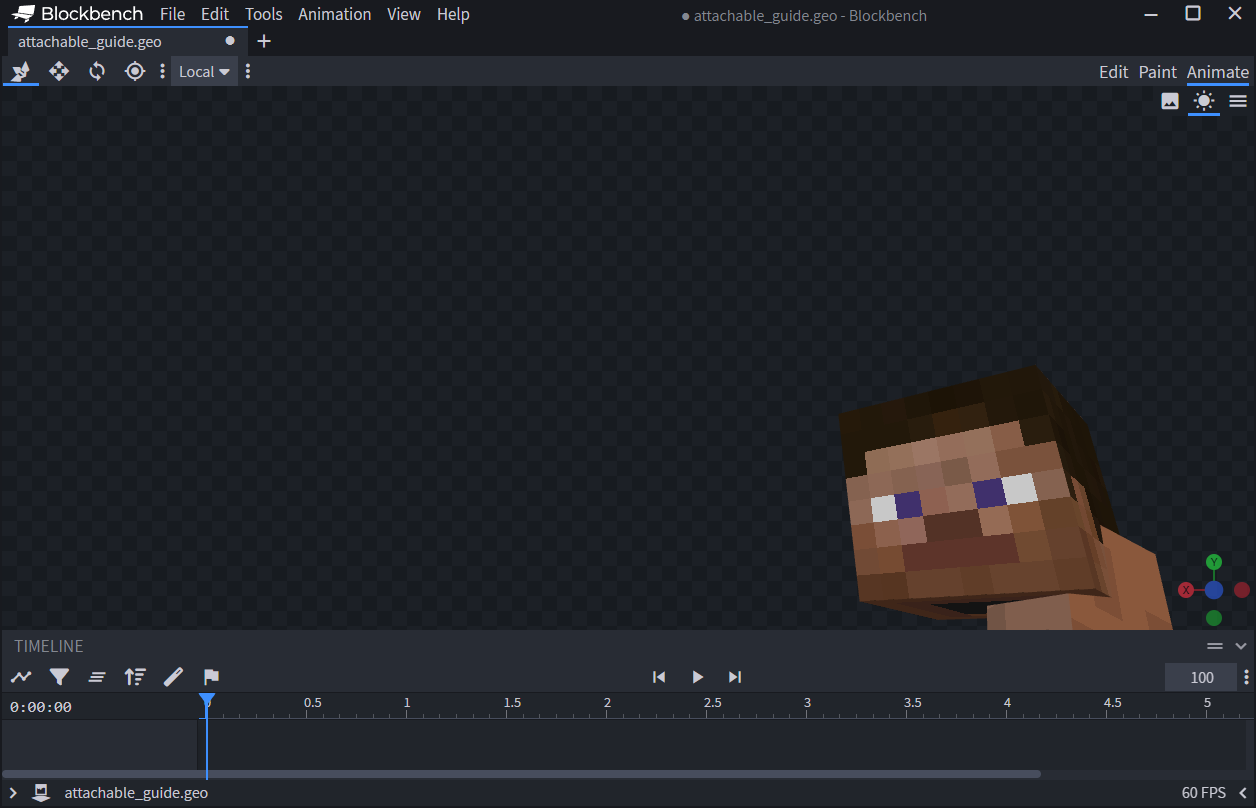
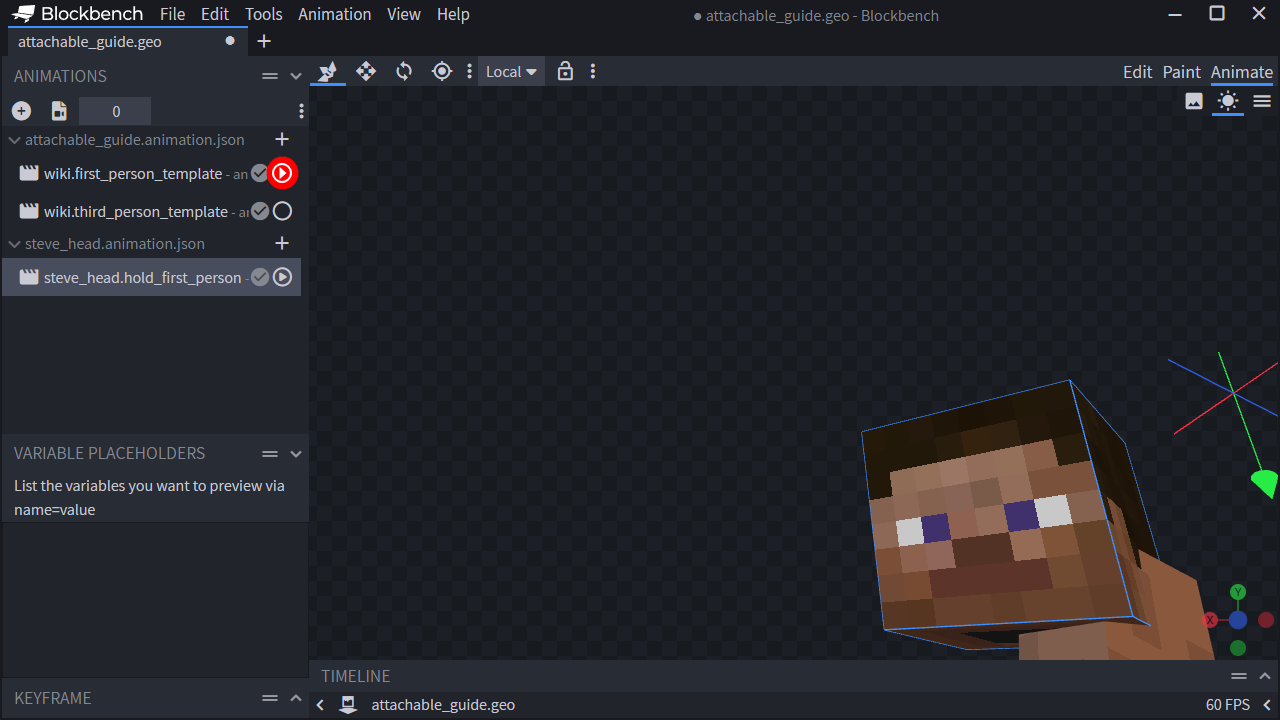
Updated attachables article
A lot of the phrasing has been improved to be more clear.
Updated the instructions and attached ZIP file to be easier to use; instead of requiring users to move their cubes and bones to the arm, an offset was implemented in the animation to do this automatically. Users still need to set the arm as the parent however. The left arm was also added if players wanted to utilize that too.
Made it more clear that the format version for the geometry should be "1.16.0" to use model binding.
Updated images to have consistent 16:9 resolutions.

diff --git a/docs/.vitepress/theme/Components/Pages/NotFound.vue b/docs/.vitepress/theme/Components/Pages/NotFound.vue
@@ -52,6 +52,8 @@ const URL_MAP: Record<string, string> = {
 	'knowledge/using-schemas': 'meta/using-schemas',
 	'knowledge/version-control': 'meta/version-control',
 
+	'items/3d-items': 'items/attachables',
+
 	'scripting/saving_loading': 'scripting/saving-loading',
 
 	'troubleshooting/entities': 'entities/troubleshooting-entities',
@@ -65,7 +67,7 @@ const URL_MAP: Record<string, string> = {
 	'tutorials/controlling-flying-entities': 'entities/flying-entities',
 	'tutorials/craftable-spawneggs': 'loot/craftable-spawneggs',
 	'tutorials/custom-armor': 'entities/custom-armor',
-	'tutorials/item-models': 'items/3d-items',
+	'tutorials/item-models': 'items/attachables',
 	'tutorials/disabling-particles': 'visuals/disabling-particles',
 	'tutorials/disabling-team-damage': 'entities/disabling-team-damage',
 	'tutorials/egg-drops': 'loot/egg-drops',

diff --git a/docs/items/attachables.md b/docs/items/attachables.md
@@ -29,7 +29,7 @@ By the end of this tutorial, you should be able to:
 
 Attachable files are quite similar in design to client entity definitions; they let us define textures, materials, geometries, and animations to display the attachable.
 
-Here's a basic example of an attachable, which we will be using throughout this tutorial, that makes a stick look like a spyglass:
+Here's a basic example of an attachable, which we will be using throughout this tutorial. This makes a stick look like a spyglass:
 
 <CodeHeader>RP/attachables/stick.json</CodeHeader>
 
@@ -93,10 +93,12 @@ In the attachable file, change the geometry name to `"geometry.steve_head"` and 
 },
 "geometry": {
 	"default": "geometry.steve_head"
-}
+},
 ```
 
-It is important to make sure your model can work with attachables. Our first step is modifying the root bone of the geometry to be bound to the slot the item is placed in. Take careful note of line 16 in the Steve head model below:
+It is important to make sure your model can work with attachables. Our first step is to upgrade the model file format to "1.16.0" if it is not already. If the model is a legacy file, then convert that to a more modern format before continuing.
+
+Next up is modifying the root bone of the geometry to be bound to the slot the item is placed in. Take careful note of line 16 in the Steve head model below:
 
 <CodeHeader>RP/models/entity/steve_head.geo.json</CodeHeader>
 
@@ -127,13 +129,13 @@ It is important to make sure your model can work with attachables. Our first ste
 	]
 }
 ```
-While the `"parent"` property accepts a string and will make any child bones inherit transformations from the specified bone, the `"binding"` property accepts MoLang and sets the specified bone as the root that this geometry should inherit; the position of the model is moved to this bone too. This will have consequences in the next section where we make animations.
+While the `"parent"` property on a bone accepts a string and will make the target bone the parent of the source bone, the `"binding"` property accepts Molang and sets the target bone as the *root position* that the source bone and its children should inherit. This will have consequences in the next section where we make animations.
 
-Here we are converting the contextual variable `c.item_slot` to its corresponding bone name in the geometry. The conversions are `'main_hand'` → "rightItem", `'off_hand'` → "leftItem", and `'head'` → "head".
+For the value of `"binding"` we are using the Molang query `query.item_slot_to_bone_name`, with the contextual variable `c.item_slot` as an argument. This converts the name of the slot to its corresponding bone name in the player's geometry. The conversions are `'main_hand'` → "rightitem" and `'off_hand'` → "leftitem".
 
 ![](/assets/images/tutorials/attachables/attachable-step-one.png)
 
-*The head is free-floating for now, but we are about to fix that.*
+*If we look in Minecraft the head floats below our hand. Levitation powers perhaps?*
 
 
 ## Display Settings
@@ -156,7 +158,7 @@ With that done, the next step is to set up animations to display the model in fi
 			"hold_third_person": "!c.is_first_person"
 		}
 	]
-}
+},
 ```
 
 Attached below is a template to assist with setting up these animations, using a modified player geometry.
@@ -164,22 +166,16 @@ Attached below is a template to assist with setting up these animations, using a
 <BButton link="https://github.com/Bedrock-OSS/bedrock-wiki/blob/wiki/docs/public/assets/packs/tutorials/attachables/AttachableRotations.zip?raw=true">📁 Player geometry and animations</BButton>
 
 ::: tip
-These files already have our Steve head model imported for this tutorial and it serves as an example.
+These files already have our Steve head model imported for this tutorial to serve as an example. If you are running into problems, compare your model setup to these!
 :::
 
-Here are some instructions on how to use these files:
-- Edit the geometry file to include the bones and cubes from your custom model.
-- Open the geometry in Blockbench, and set your model to be parented under the corresponding bone ("rightItem", "leftItem", or "head").
-- Move the model's root bone position so its origin (0, 0, 0) is located at the same position as the parented bone's pivot.
-  - It may be a good idea to place a locator at the root of your model to make adjustments easier.
+Using a text editor, edit the geometry file to include the bones and cubes from your custom model. Then open the geometry in Blockbench, and set your model to be parented under the bone you wish to set positions for (rightItem or leftItem).
 
 ![](/assets/images/tutorials/attachables/blockbench-view-one.png)
 
-*For the right hand slot, the root should be at (6, 15, 1).*
+In the animations tab, import the Attachable Guide animations you will need. You may then make new animations to position the bones in your model as desired. Some example animations for our Steve head model are supplied as well, for the first-person and third-person held in the right hand.
 
-- In the Animations tab, import the provided animations, and play them.
-
-You may then make new animations to position your model as desired. Some example first- and third-person animations for our Steve head model are supplied as well. Be sure to play the template animations while you make adjustments, as these will ensure what you see in Blockbench matches what comes out in Minecraft.
+Be sure to play the template animations while you make adjustments, as these will ensure what you see in Blockbench matches what comes out in Minecraft. Also make sure you are editing the bones of your model, and not the `rightArm` or `rightItem` bones from the template.
 
 ![](/assets/images/tutorials/attachables/blockbench-view-two.png)
 
